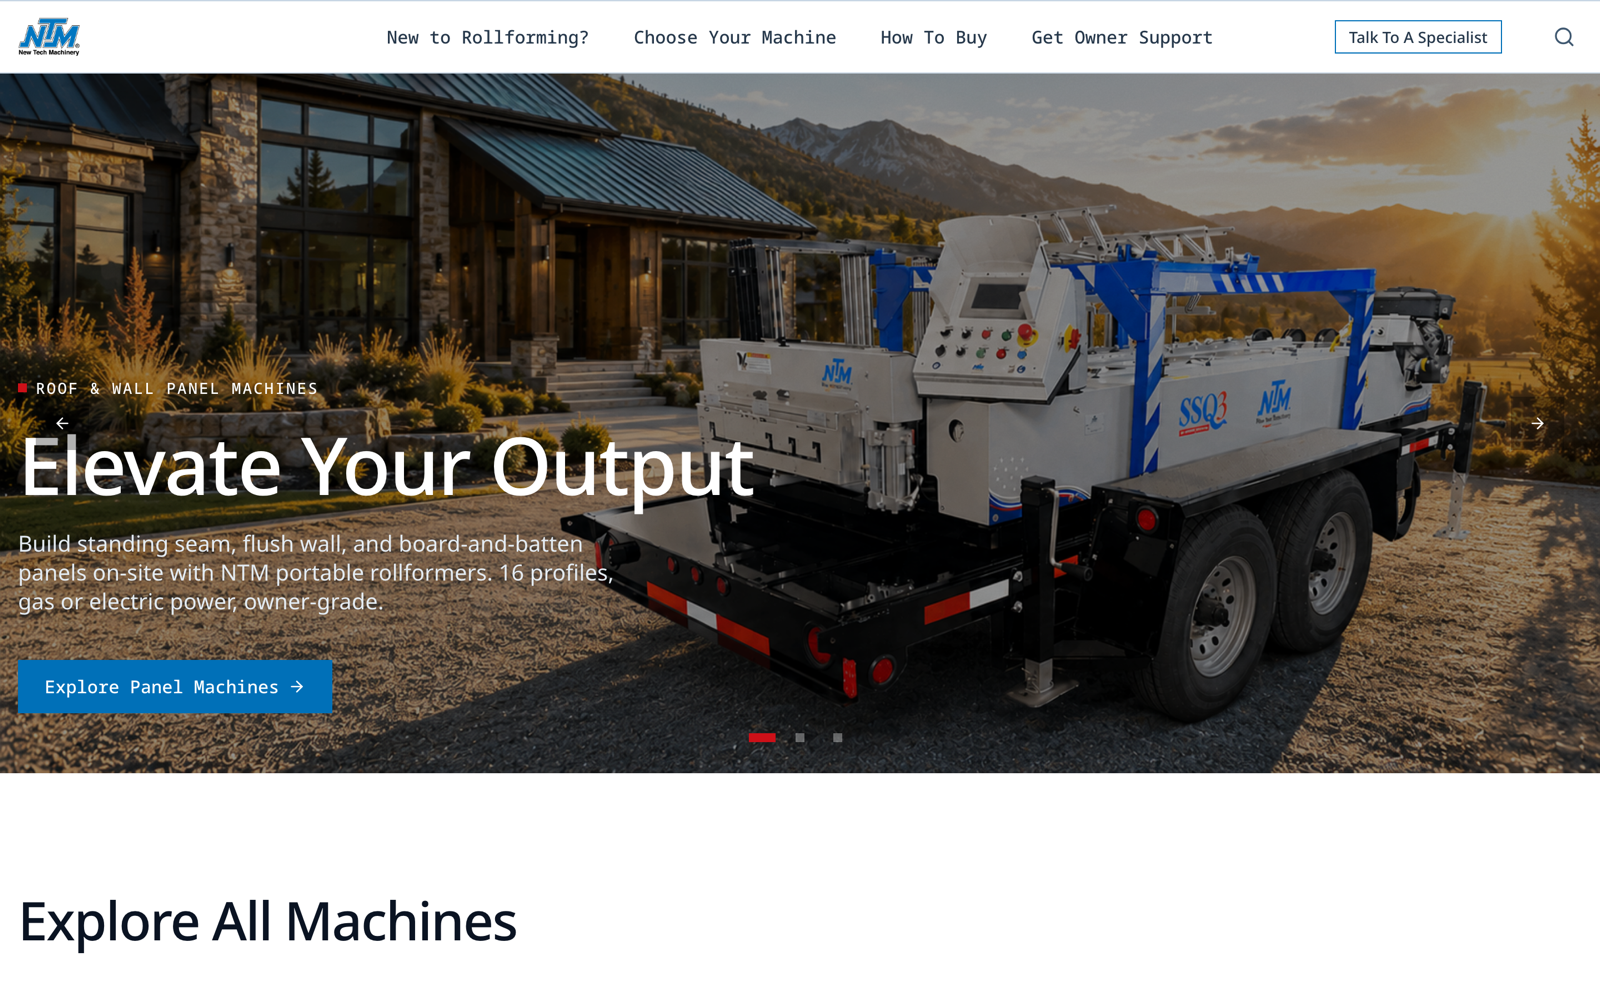
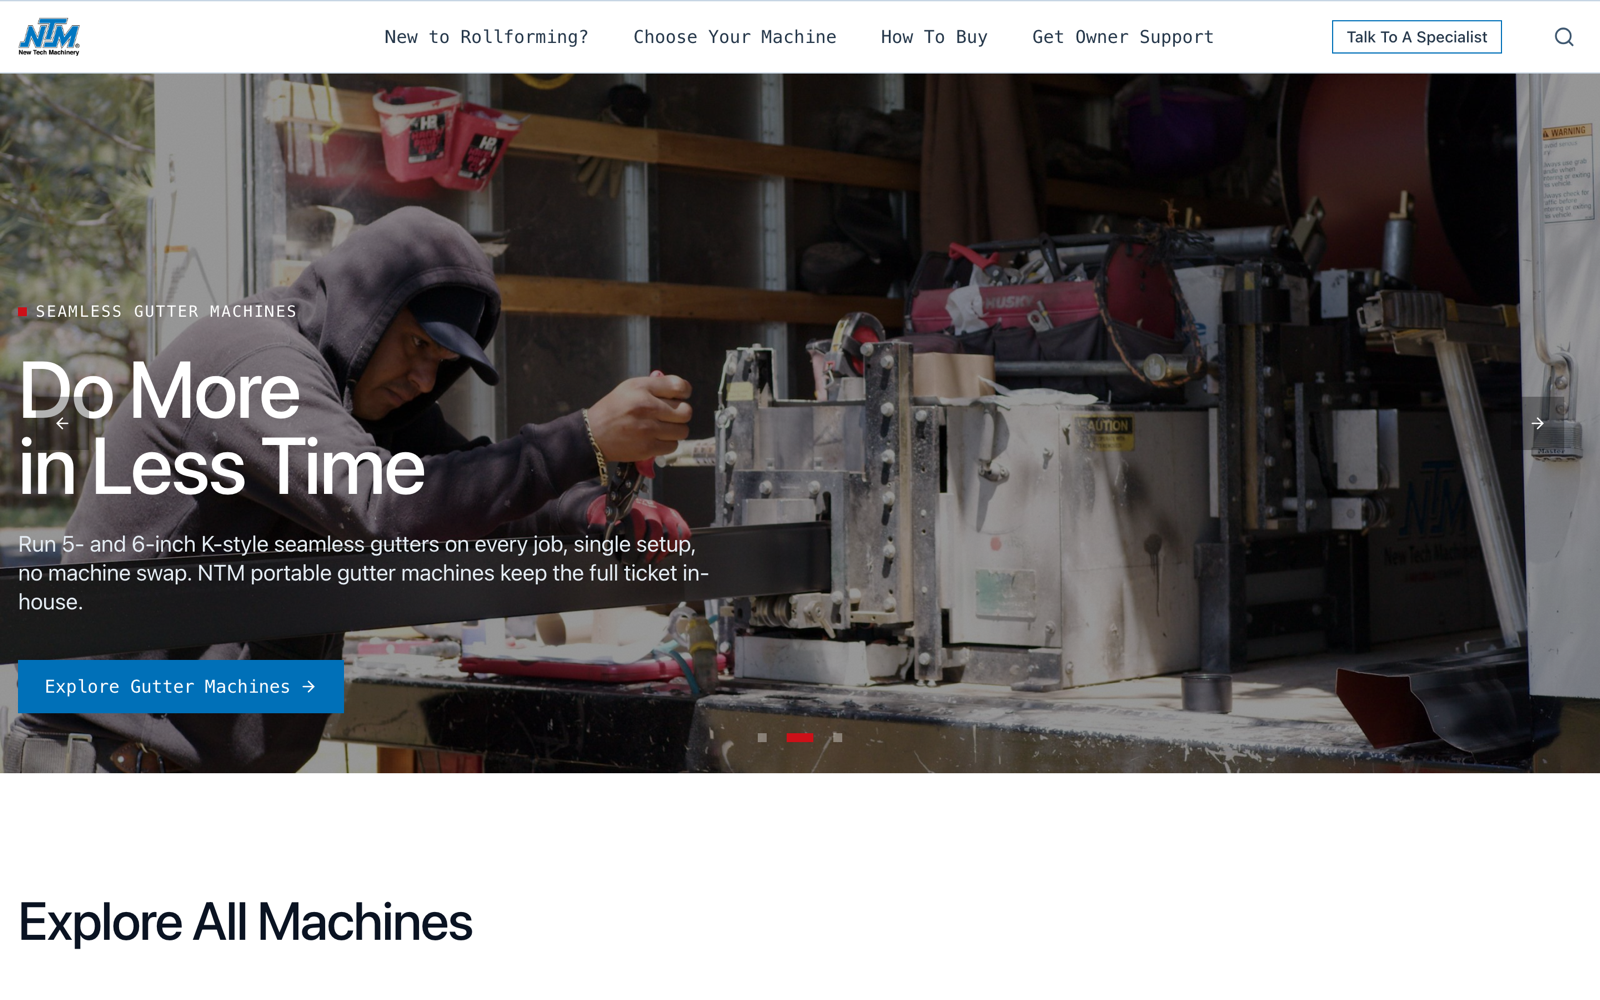
docs(presentation): re-capture screenshots vs merged dev; add pages; fix side-crop
- Merged origin/dev (4d19f82) into this branch first, then re-captured against
  the current served build.
- Re-captured: homepage-hero, finance-center (now show latest imagery/copy).
- Added: machine-page (real Q3 photo + Build&Quote CTA), service-hub
  (content-first hero), learning-center, and the configurator mockup
  (config-mockup.png from the theme).
- Wired new images in: slide 6 shows the configurator, slide 8 uses the
  machine page, slide 9 shows Service Hub + Learning Center.
- Fixed the side-cropping: .shot img default is now object-fit:contain
  (was cover, which chopped wide page screenshots on the edges); .shot--cover
  opt-in for intentional crops. Tightened slide 6's right column so it no
  longer overflows.
- Downsampled new shots to 1600px (~7MB total).

diff --git a/docs/presentation/slides.html b/docs/presentation/slides.html
@@ -147,11 +147,12 @@
   ul.ticks .mk--red { color: var(--red); }
   ul.ticks .mk--blue { color: var(--blue-500); }
 
-  /* image frames */
-  .shot { border: 1px solid var(--blue-200); overflow: hidden; background: var(--blue-50); }
-  .shot img { width: 100%; height: 100%; object-fit: cover; display: block; }
-  .shot--contain { background: var(--blue-900); }
-  .shot--contain img { object-fit: contain; }
+  /* image frames — default to CONTAIN so wide page screenshots never crop on the sides.
+     Use .shot--cover only for an intentional tight crop (e.g. a hero band). */
+  .shot { border: 1px solid var(--blue-200); overflow: hidden; background: var(--white); display: flex; }
+  .shot img { width: 100%; height: 100%; object-fit: contain; object-position: top center; display: block; }
+  .shot--cover img { object-fit: cover; object-position: top center; }
+  .shot--ink { background: var(--blue-900); }
   .fill { width: 100%; height: 100%; }
   .figcap { font-family: var(--mono); font-size: .72rem; color: var(--blue-400); margin-top: .6rem; text-transform: uppercase; letter-spacing: .1em; }
 
@@ -346,17 +347,24 @@
       <span class="eyebrow"><span class="tick"></span>Feature · The buying funnel</span>
       <h2>Build · Quote · Finance — one flow, no gatekeeping.</h2>
     </div>
-    <div class="body" style="justify-content:center;">
-      <div class="cells cells--3">
-        <div class="cell"><span class="n">01</span><span class="t">Build</span><span class="d">Spec the machine — profiles, power pack, controls, accessories — in a guided picker.</span></div>
-        <div class="cell"><span class="n">02</span><span class="t">Quote</span><span class="d">A real, itemized price on screen. No “contact us for pricing” stall.</span></div>
-        <div class="cell"><span class="n">03</span><span class="t">Finance</span><span class="d">Apply in the same flow. The whole path runs in the browser.</span></div>
+    <div class="body">
+      <div class="cols-2 top">
+        <div>
+          <div class="shot shot--ink fill" style="max-height:52vh;"><img src="assets/screens/configurator.png" alt="The online configurator — Find the right solution for you, powered by Corbel"></div>
+          <p class="figcap">The configurator — build, price, and apply in the browser</p>
+        </div>
+        <div style="display:flex; flex-direction:column; gap:1rem;">
+          <ul class="ticks">
+            <li><span class="mk mk--blue">01</span><span><b>Build</b> — spec the machine in a guided picker.</span></li>
+            <li><span class="mk mk--blue">02</span><span><b>Quote</b> — a real, itemized price. No “contact us for pricing.”</span></li>
+            <li><span class="mk mk--blue">03</span><span><b>Finance</b> — apply in the same flow, all in the browser.</span></li>
+          </ul>
+          <p class="quote" style="font-size:.95rem; max-width:44ch; border-color:var(--blue-400);">
+            We put this on the <b>machine page</b>, not the homepage — on purpose.
+            <cite>— fewer quotes, but far better-qualified ones</cite>
+          </p>
+        </div>
       </div>
-      <p class="quote" style="margin-top:2rem; max-width:60ch; border-color:var(--blue-400);">
-        We put this on the <b>machine page</b>, not the homepage — on purpose.
-        Guide buyers to the right machine first; configure once they know what they want.
-        <cite>— fewer quotes, but far better-qualified ones</cite>
-      </p>
     </div>
   </section>
 
@@ -393,7 +401,10 @@
     </div>
     <div class="body">
       <div class="cols-2 top">
-        <div class="shot fill" style="max-height:60vh;"><img src="assets/screens/homepage-hero.png" alt="Homepage hero"></div>
+        <div>
+          <div class="shot fill" style="max-height:58vh;"><img src="assets/screens/machine-page.png" alt="SSQ3 machine page — engineered look and feel"></div>
+          <p class="figcap">Machine page — real Q3 photography, engineered chrome</p>
+        </div>
         <div style="display:flex; flex-direction:column; gap:1.4rem;">
           <ul class="ticks">
             <li><span class="mk mk--blue">—</span><span>Sharp corners — built like the machines, not a soft consumer app</span></li>
@@ -411,16 +422,26 @@
   </section>
 
   <!-- 9 — SUPPORTING UPGRADES -->
-  <section class="slide slide--ink" data-note="Rapid-fire. One line each, don't linger. Live search, Service Hub, the machine data layer that powers pricing/specs everywhere.">
+  <section class="slide slide--ink" data-note="Rapid-fire. Two real pages on top (Service Hub = content-first owner support; Learning Center = the educational engine). Then one line each for search, Service Hub, data layer. Don't linger.">
     <div class="head">
       <span class="eyebrow"><span class="tick"></span>Also shipped</span>
-      <h2>Three more upgrades worth a line each.</h2>
+      <h2>More that makes the site work harder.</h2>
     </div>
-    <div class="body">
-      <div class="tiles">
-        <div class="tile"><span class="k">Discovery</span><span class="h">Live header search</span><span class="p">Instant results as you type, top-5, filtered by type — find a manual in two seconds.</span></div>
-        <div class="tile"><span class="k">Ownership</span><span class="h">Service Hub</span><span class="p">Pick a machine → its manuals, firmware, troubleshooting, and training, all in one place.</span></div>
-        <div class="tile"><span class="k">Foundation</span><span class="h">Machine data layer</span><span class="p">One source of truth drives specs, pricing, and finance data across every page.</span></div>
+    <div class="body" style="gap:1.4rem;">
+      <div class="cols-2 top" style="flex:none; align-items:start;">
+        <div>
+          <div class="shot fill" style="height:34vh;"><img src="assets/screens/service-hub.png" alt="Service Hub — content-first owner support"></div>
+          <p class="figcap">Service Hub — content-first, per-machine support</p>
+        </div>
+        <div>
+          <div class="shot fill" style="height:34vh;"><img src="assets/screens/learning-center.png" alt="Learning Center — educational content engine"></div>
+          <p class="figcap">Learning Center — the educational engine</p>
+        </div>
+      </div>
+      <div class="tiles" style="flex:none; align-content:start;">
+        <div class="tile"><span class="k">Discovery</span><span class="h">Live header search</span><span class="p">Instant results, top-5, filtered by type — find a manual in two seconds.</span></div>
+        <div class="tile"><span class="k">Ownership</span><span class="h">Service Hub</span><span class="p">Pick a machine → its manuals, firmware, troubleshooting, training.</span></div>
+        <div class="tile"><span class="k">Foundation</span><span class="h">Machine data layer</span><span class="p">One source of truth drives specs, pricing, and finance everywhere.</span></div>
       </div>
     </div>
   </section>